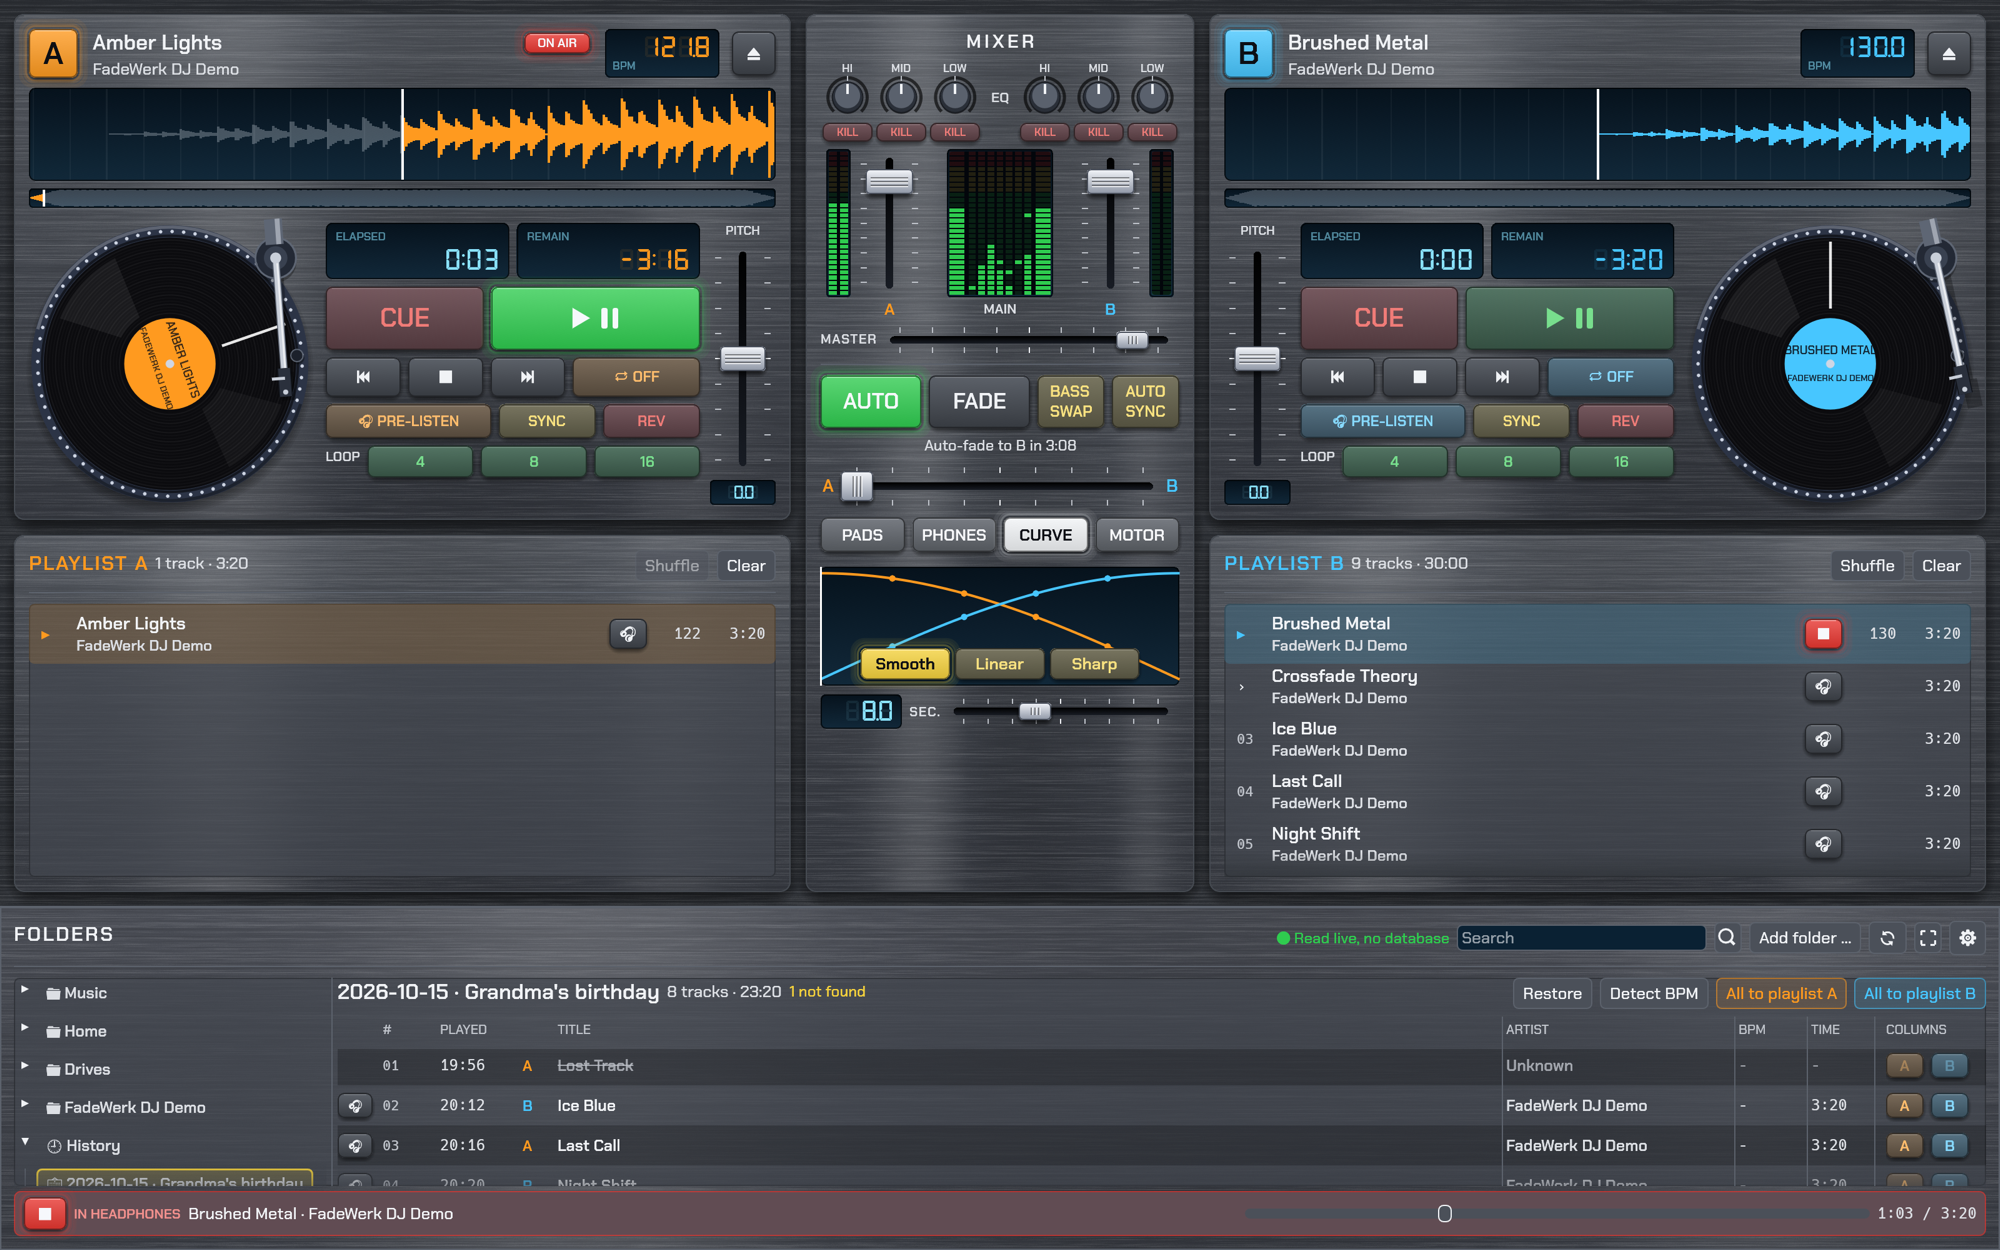
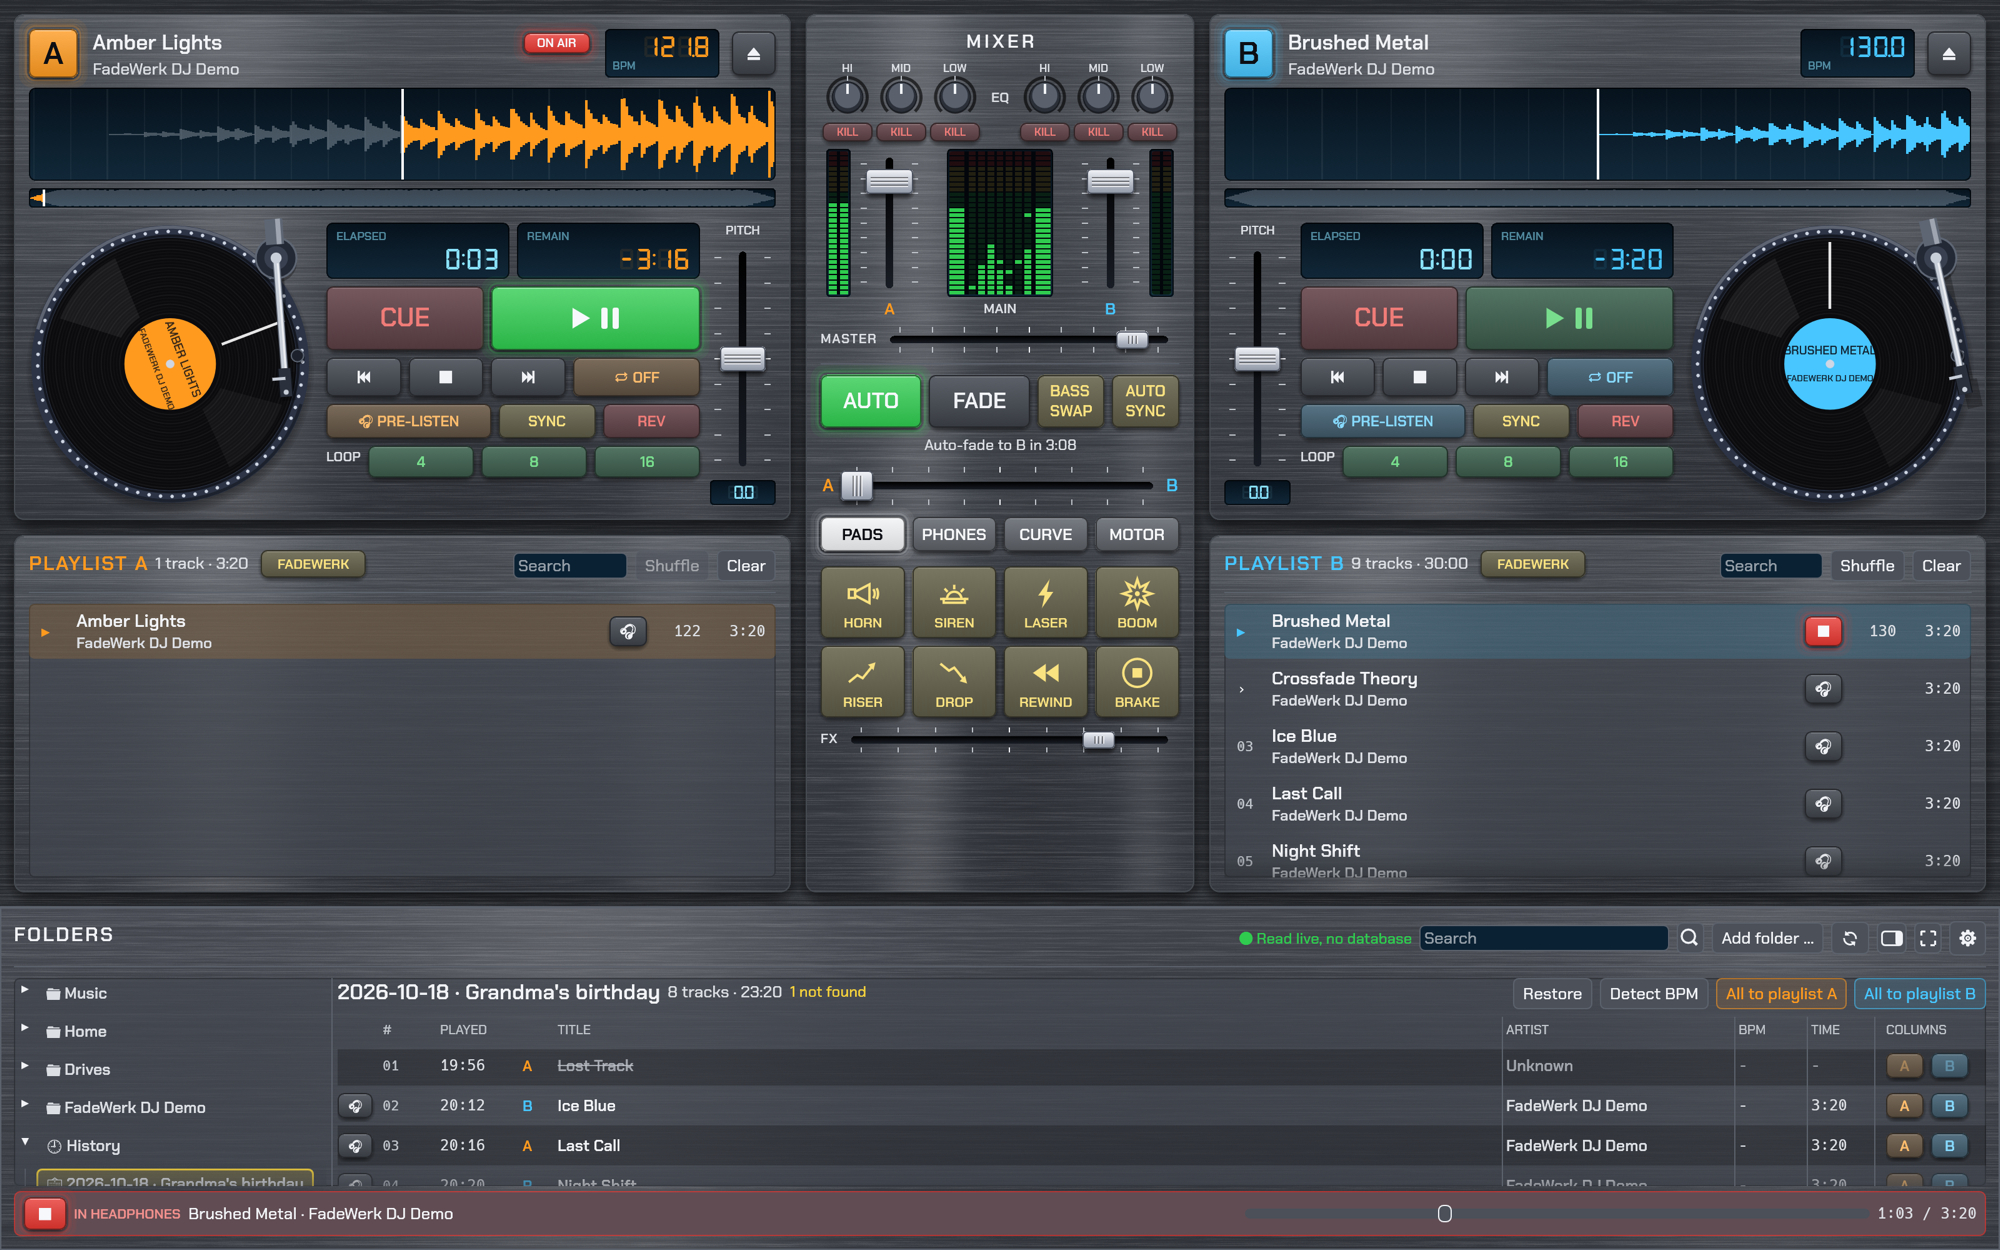
Version 0.1.30: neue Screenshots, Suchfeld in schmalen Playlist-Köpfen
- README: Screenshots neu aufgenommen, dazu ein Bild vom FadeWerk-Modus mit
  offenem Fade-Editor.
- In schmalen Playlist-Köpfen (etwa mit dem Ordnerbrowser rechts) schob sich
  die FADEWERK-Taste über das Suchfeld; das Feld wird jetzt schmaler und fällt
  weg, wenn kein Platz bleibt.

diff --git a/app/src/app.rs b/app/src/app.rs
@@ -506,7 +506,7 @@ impl FadeWerkDjApp {
                 app.fadewerk = true;
                 if v == "edit" && app.playlists[1].entries.len() > 1 {
                     use crate::fadewerk::{Region, TrackFade};
-                    app.playlists[1].set_fade(0, TrackFade { fade_in: None, fade_out: Some(Region { start: 186.0, end: 196.0 }) });
+                    app.playlists[1].set_fade(0, TrackFade { fade_in: Some(Region { start: 1.5, end: 7.0 }), fade_out: Some(Region { start: 186.0, end: 196.0 }) });
                     app.playlists[1].set_fade(1, TrackFade { fade_in: Some(Region { start: 2.5, end: 9.0 }), fade_out: Some(Region { start: 192.0, end: 192.0 }) });
                     // FW_EDIT_INDEX wählt den Eintrag (Standard 1)
                     let k = std::env::var("FW_EDIT_INDEX").ok().and_then(|v| v.parse().ok()).filter(|&k: &usize| k < app.playlists[1].entries.len()).unwrap_or(1);

diff --git a/app/src/playlist_ui.rs b/app/src/playlist_ui.rs
@@ -801,7 +801,12 @@ fn quick_search(ui: &mut egui::Ui, list: usize, pl: &Playlist, metas: &HashMap<P
     let mut query: String = ui.data(|d| d.get_temp(id)).unwrap_or_default();
     // Trefferzahl der letzten Suche, als (Stelle, Anzahl)
     let hits_id = id.with("hits");
-    let w = (ui.available_width() * 0.45).clamp(80.0, 200.0);
+    // In schmalen Köpfen nur so breit wie der Platz vor der FADEWERK-Taste, ganz ohne Platz gar nicht
+    let room = ui.available_width() - 6.0;
+    if room < 40.0 {
+        return None;
+    }
+    let w = (ui.available_width() * 0.45).clamp(80.0, 200.0).min(room);
     let resp = ui.add(egui::TextEdit::singleline(&mut query).hint_text(tr("Suchen")).desired_width(w));
     let (enter, shift, esc) = ui.input(|i| (i.key_pressed(egui::Key::Enter), i.modifiers.shift, i.key_pressed(egui::Key::Escape)));
     let mut jump = None;

diff --git a/README.md b/README.md
@@ -5,6 +5,8 @@ written in Rust. Click a folder and start playing: no database, no library impor
 
 ![FadeWerk DJ with the “Night” skin](docs/screenshot.png)
 
+![FadeWerk mode: waveforms behind the playlist tracks and the fade editor open below a track](docs/screenshot-fadewerk.png)
+
 <details>
 <summary>“Classic” skin with brushed steel, the crossfade curve, a day of the history and a track playing in the headphones</summary>
 
